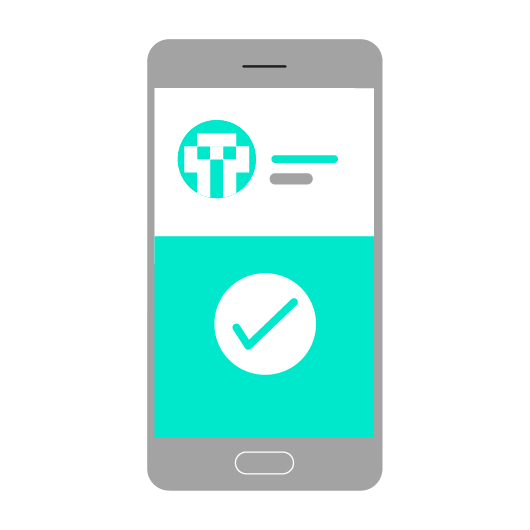
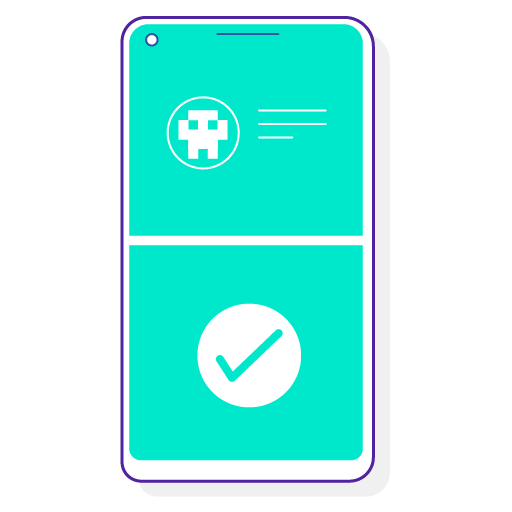
feat(app): updated to new assets & svg

diff --git a/src/pages/introduction/introduction.html b/src/pages/introduction/introduction.html
@@ -7,7 +7,6 @@
 </ion-header>
 
 <ion-content padding no-bounce fullscreen class="colored-background">
-  <!-- TODO: segment with "highest security" & "medium security" tabs -->
 
   <ion-segment [(ngModel)]="security">
     <ion-segment-button value="highest">
@@ -26,7 +25,7 @@
 
     <ion-row align-items-center>
       <ion-col col-5>
-        <img src="assets/img/AirGap_Onboarding_Vault.png" />
+        <img src="assets/img/AirGap_Onboarding_Vault.svg" />
       </ion-col>
       <ion-col col-7>
         <h5>AirGap Vault</h5>
@@ -47,7 +46,7 @@
 
     <ion-row padding-top align-items-center>
       <ion-col col-5>
-        <img src="assets/img/AirGap_Onboarding_Wallet.png" />
+        <img src="assets/img/AirGap_Onboarding_Wallet.svg" />
       </ion-col>
       <ion-col col-7>
         <h5>AirGap Wallet</h5>
@@ -67,7 +66,7 @@
 
     <ion-row align-items-center>
       <ion-col col-5>
-        <img src="assets/img/AirGap_Onboarding_Vault.png" />
+        <img src="assets/img/AirGap_Onboarding_Vault.svg" />
       </ion-col>
       <ion-col col-7>
         <h5>AirGap Vault</h5>
@@ -88,7 +87,7 @@
 
     <ion-row padding-top align-items-center>
       <ion-col col-5>
-        <img src="assets/img/AirGap_Onboarding_Wallet.png" />
+        <img src="assets/img/AirGap_Onboarding_Wallet.svg" />
       </ion-col>
       <ion-col col-7>
         <h5>AirGap Wallet</h5>
